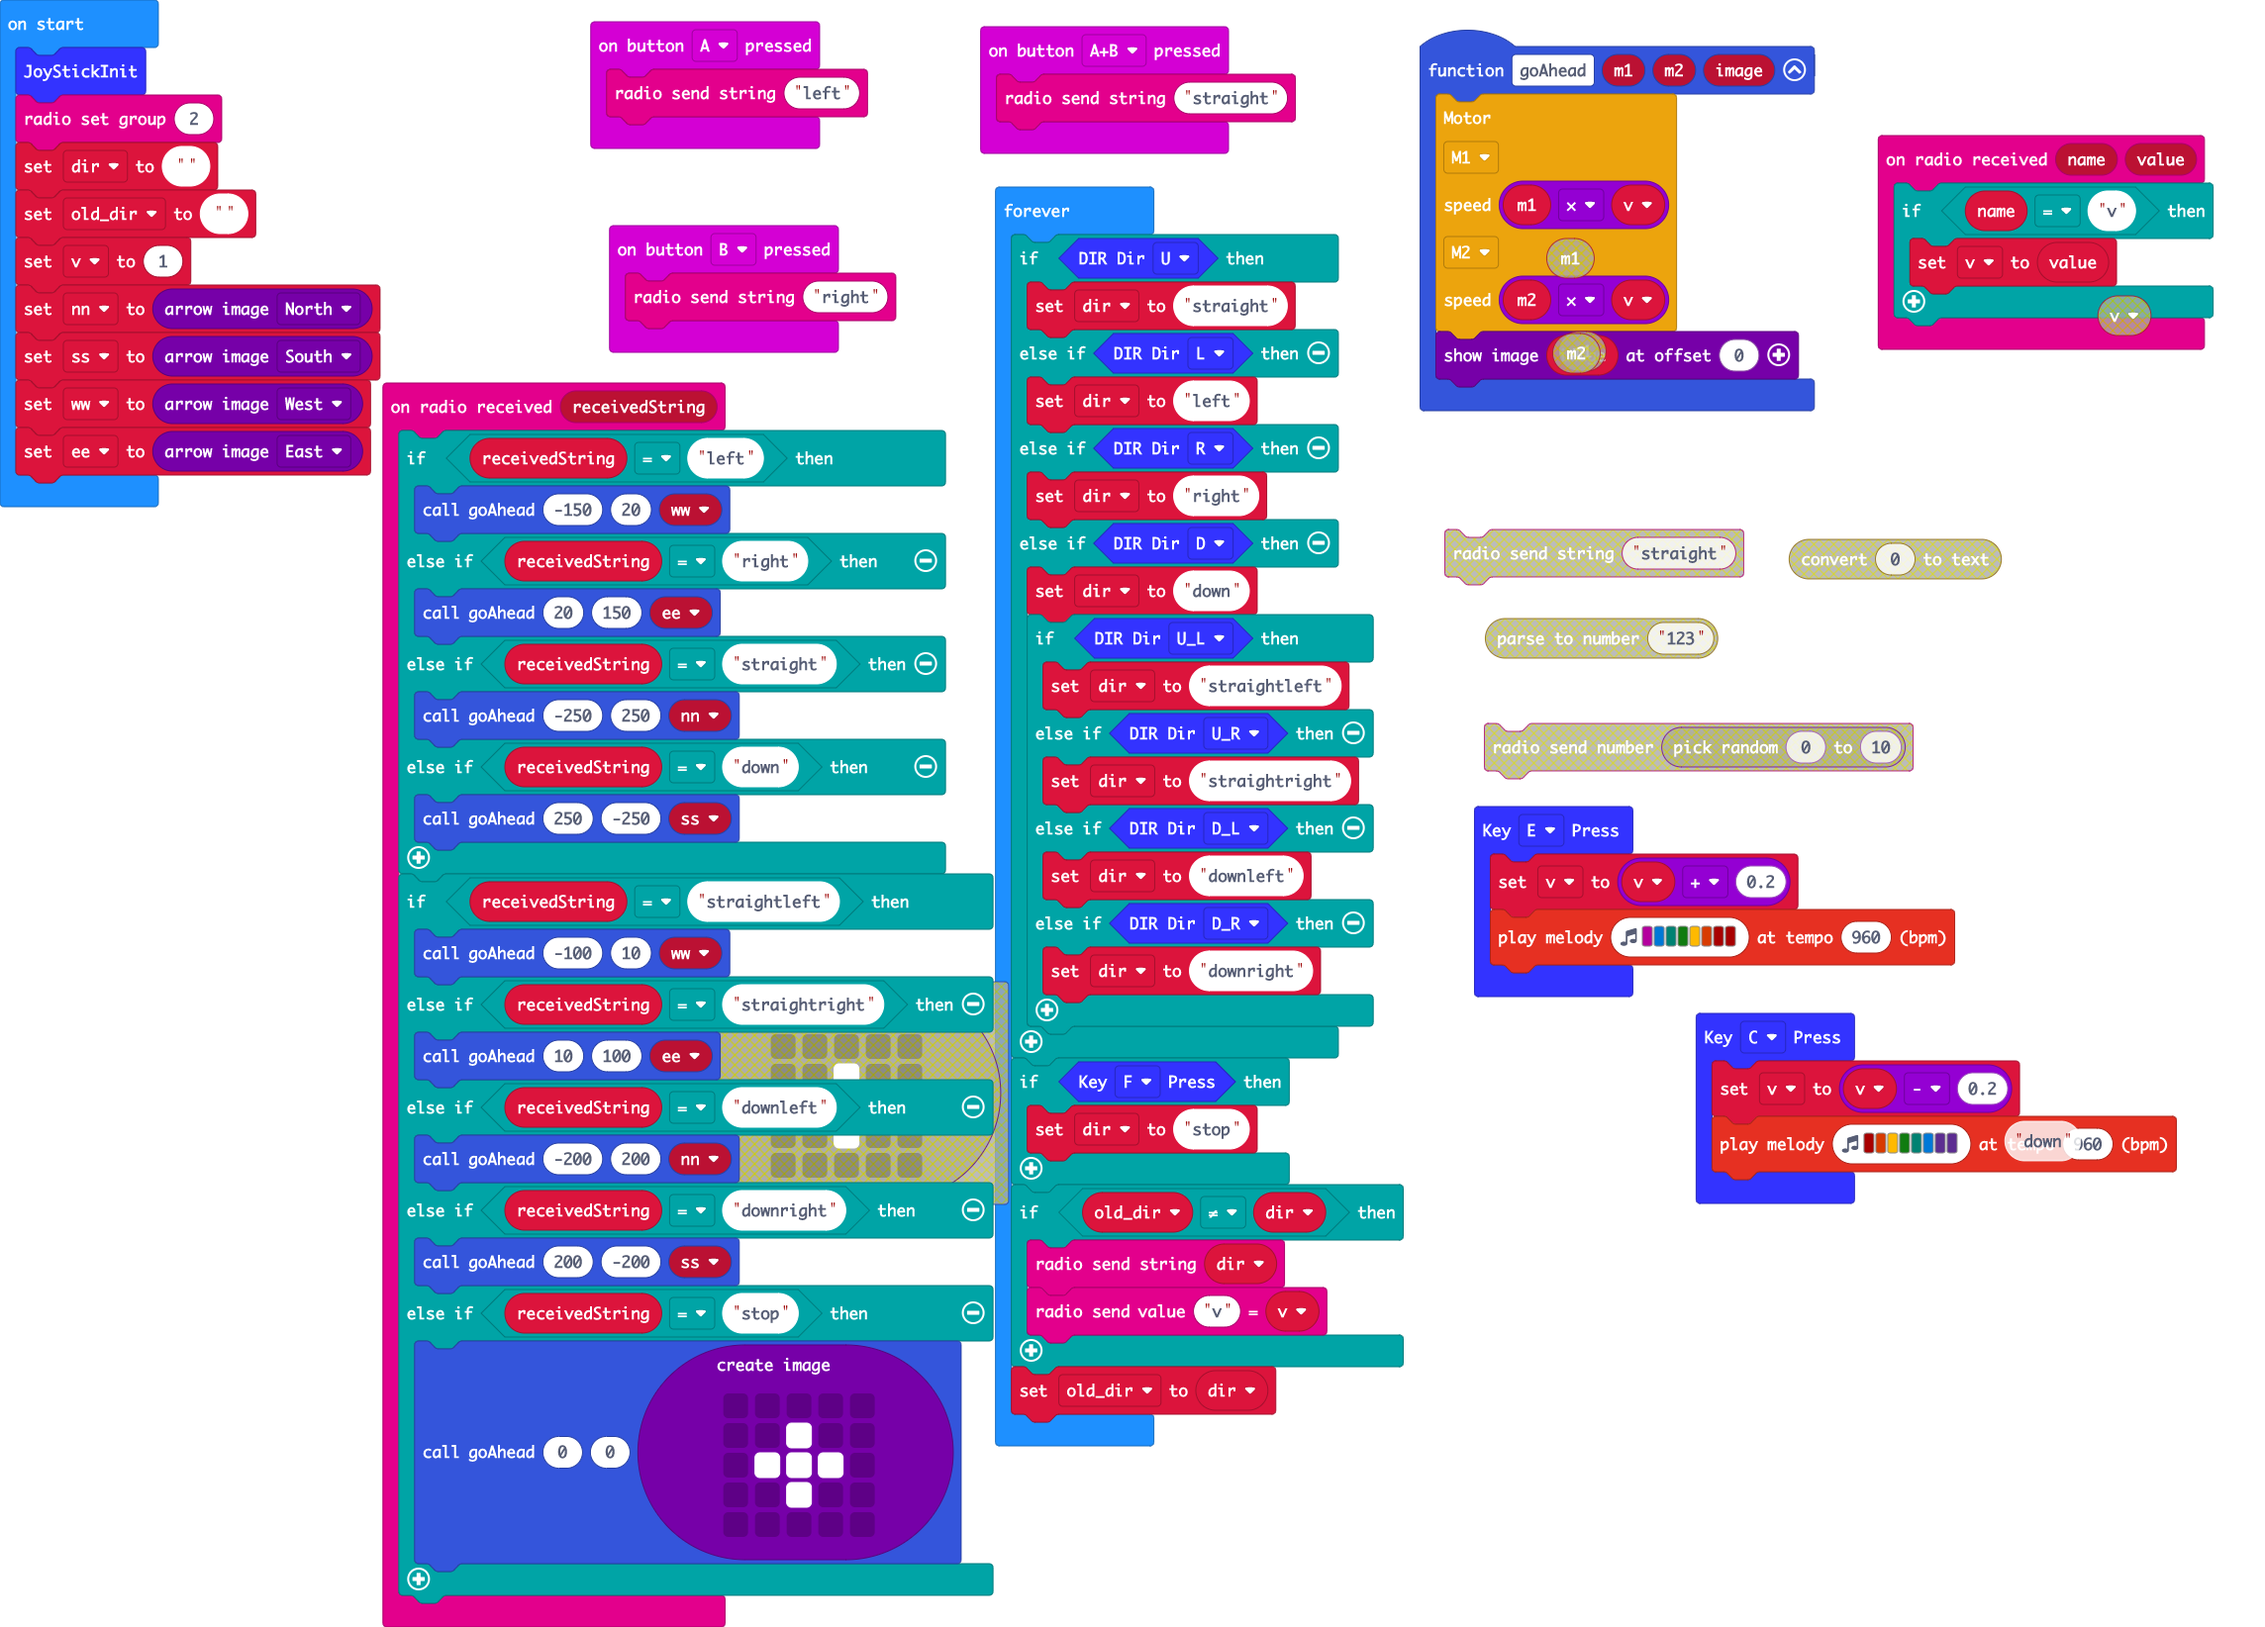
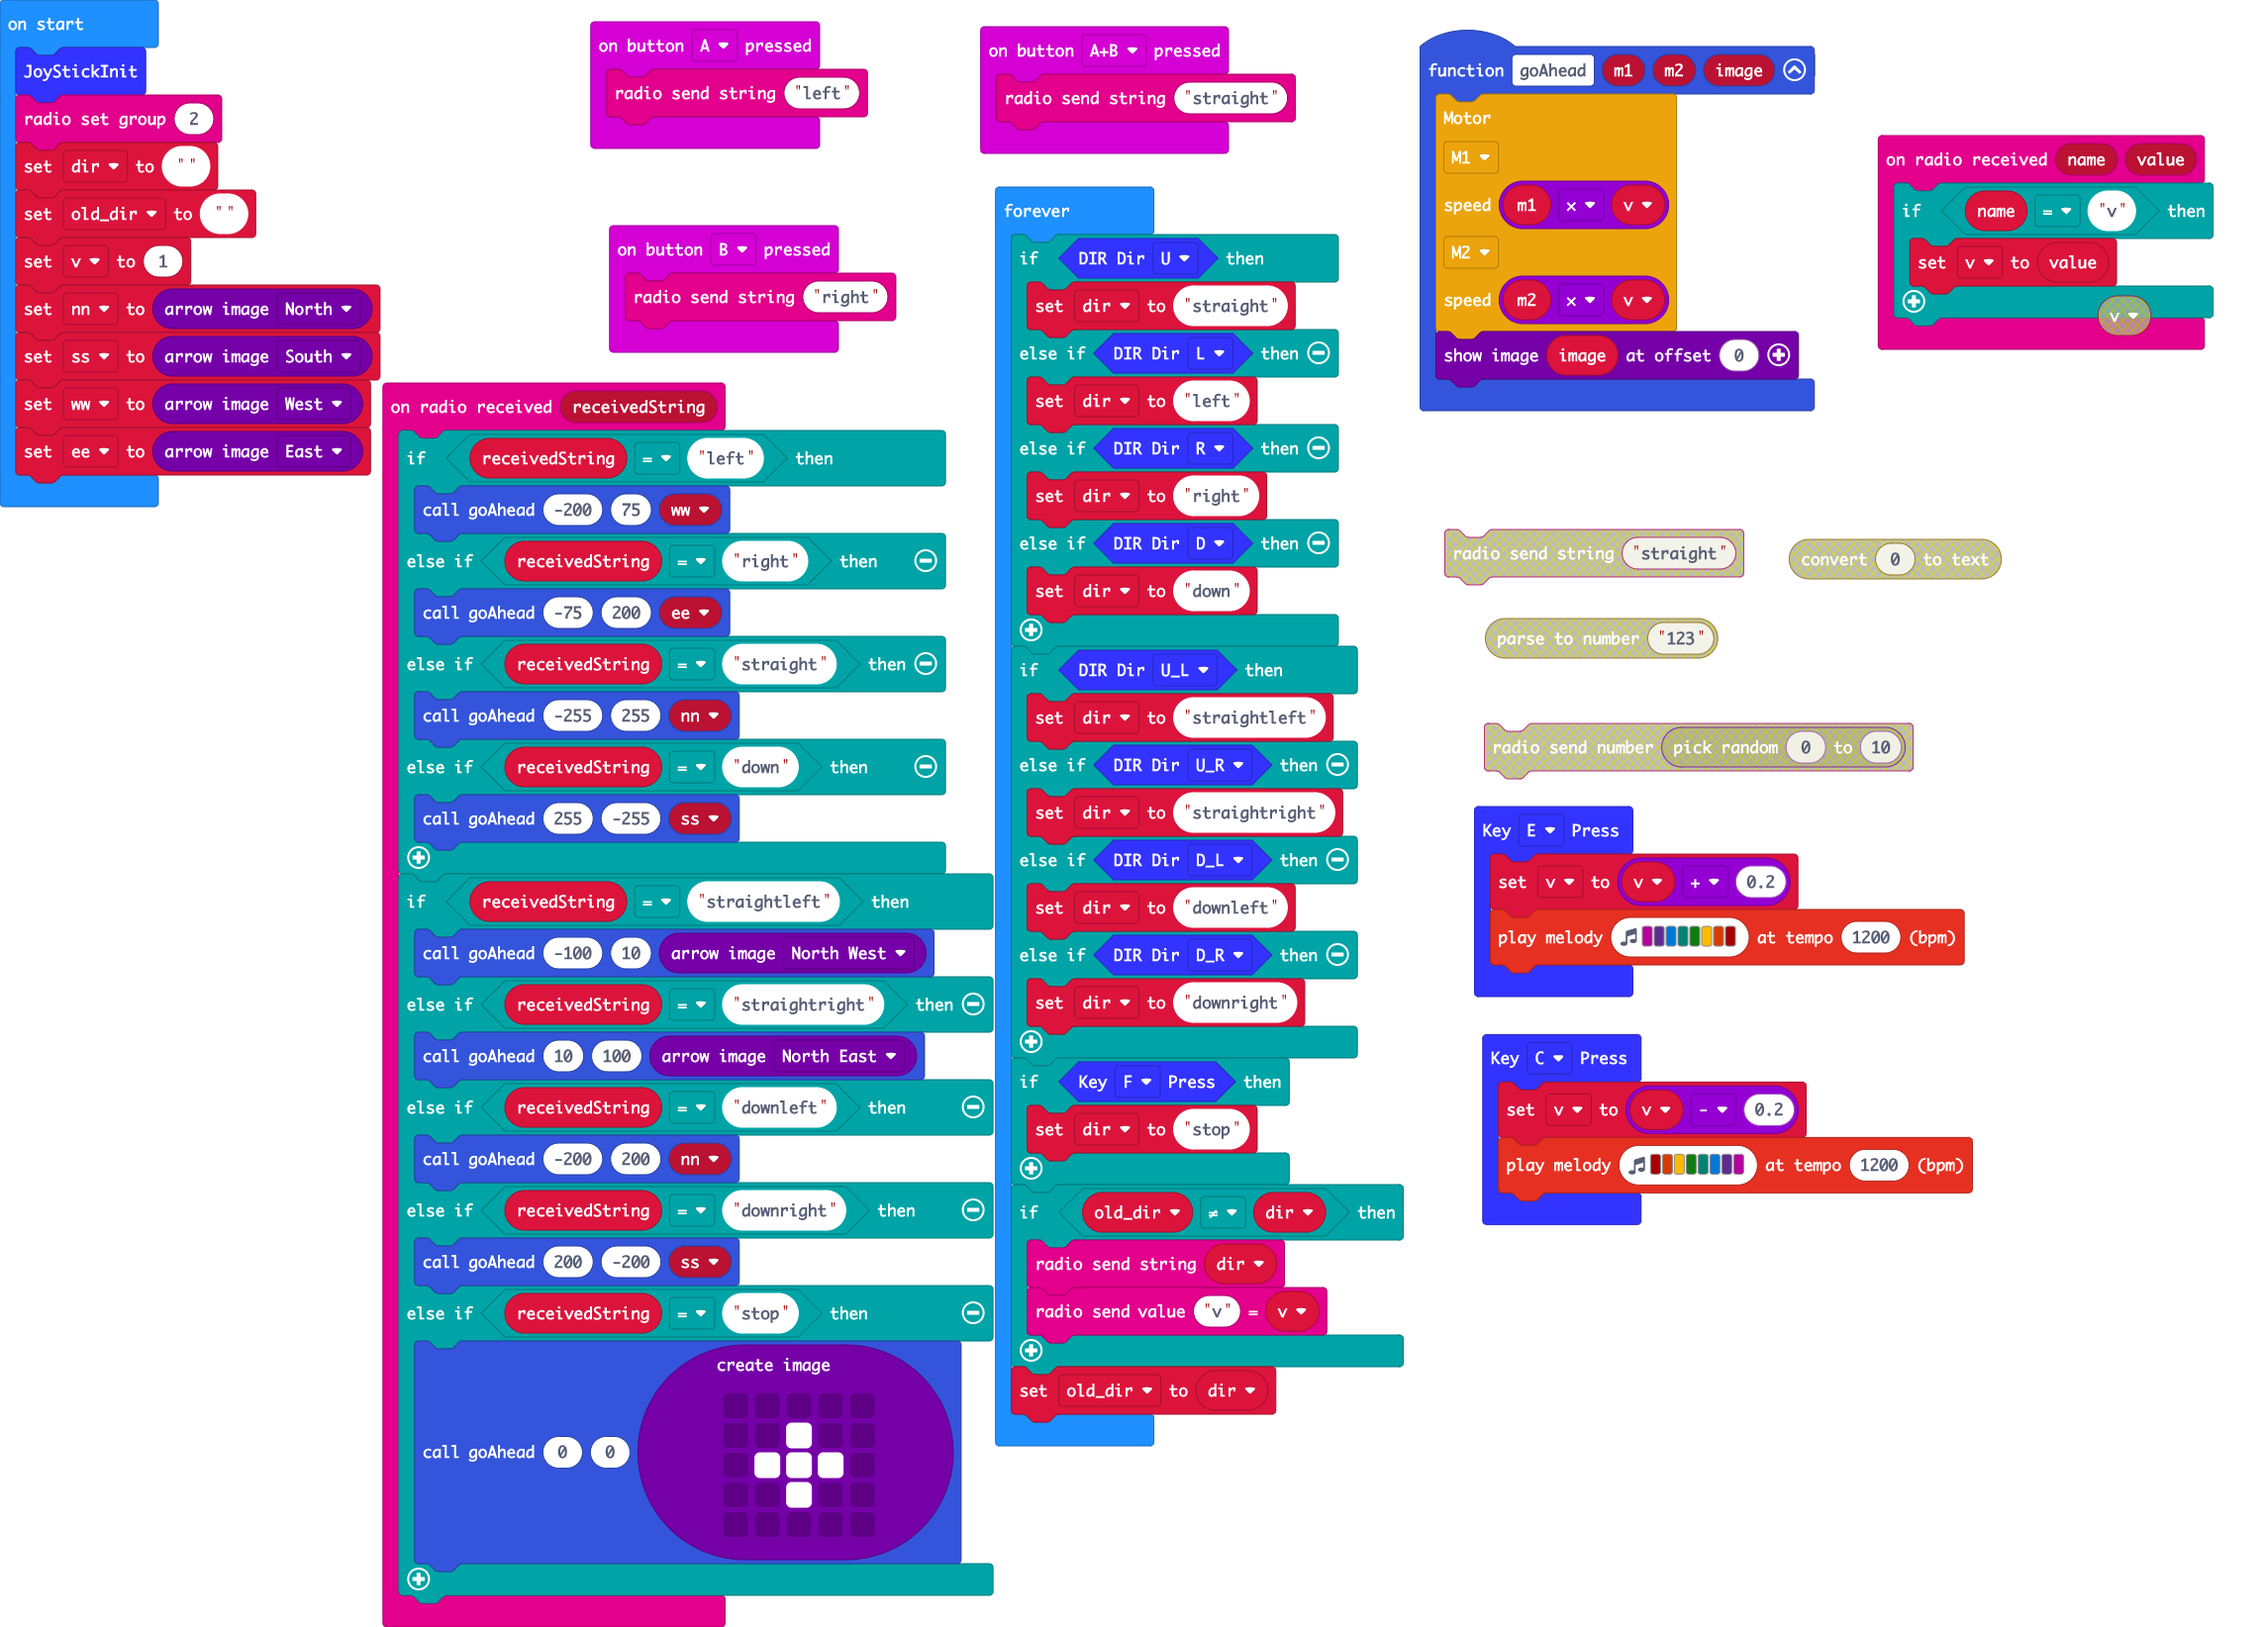
Update main.blocks, main.ts

diff --git a/main.ts b/main.ts
@@ -12,25 +12,25 @@ input.onButtonPressed(Button.A, function () {
 })
 WSJoyStick.onKey(KEY.E, function () {
     v = v + 0.2
-    music.playMelody("C E F G A B C5 C5 ", 960)
+    music.playMelody("C D E F G A B C5 ", 1200)
 })
 input.onButtonPressed(Button.AB, function () {
     radio.sendString("straight")
 })
 radio.onReceivedString(function (receivedString) {
     if (receivedString == "left") {
-        goAhead(-150, 20, ww)
+        goAhead(-200, 75, ww)
     } else if (receivedString == "right") {
-        goAhead(20, 150, ee)
+        goAhead(-75, 200, ee)
     } else if (receivedString == "straight") {
-        goAhead(-250, 250, nn)
+        goAhead(-255, 255, nn)
     } else if (receivedString == "down") {
-        goAhead(250, -250, ss)
+        goAhead(255, -255, ss)
     }
     if (receivedString == "straightleft") {
-        goAhead(-100, 10, ww)
+        goAhead(-100, 10, images.arrowImage(ArrowNames.NorthWest))
     } else if (receivedString == "straightright") {
-        goAhead(10, 100, ee)
+        goAhead(10, 100, images.arrowImage(ArrowNames.NorthEast))
     } else if (receivedString == "downleft") {
         goAhead(-200, 200, nn)
     } else if (receivedString == "downright") {
@@ -50,7 +50,7 @@ input.onButtonPressed(Button.B, function () {
 })
 WSJoyStick.onKey(KEY.C, function () {
     v = v - 0.2
-    music.playMelody("C5 B A G F E D D ", 960)
+    music.playMelody("C5 B A G F E D C ", 1200)
 })
 radio.onReceivedValue(function (name, value) {
     if (name == "v") {
@@ -80,15 +80,15 @@ basic.forever(function () {
         dir = "right"
     } else if (WSJoyStick.Listen_Dir(DIR.D)) {
         dir = "down"
-        if (WSJoyStick.Listen_Dir(DIR.U_L)) {
-            dir = "straightleft"
-        } else if (WSJoyStick.Listen_Dir(DIR.U_R)) {
-            dir = "straightright"
-        } else if (WSJoyStick.Listen_Dir(DIR.D_L)) {
-            dir = "downleft"
-        } else if (WSJoyStick.Listen_Dir(DIR.D_R)) {
-            dir = "downright"
-        }
+    }
+    if (WSJoyStick.Listen_Dir(DIR.U_L)) {
+        dir = "straightleft"
+    } else if (WSJoyStick.Listen_Dir(DIR.U_R)) {
+        dir = "straightright"
+    } else if (WSJoyStick.Listen_Dir(DIR.D_L)) {
+        dir = "downleft"
+    } else if (WSJoyStick.Listen_Dir(DIR.D_R)) {
+        dir = "downright"
     }
     if (WSJoyStick.Listen_Key(KEY.F)) {
         dir = "stop"
